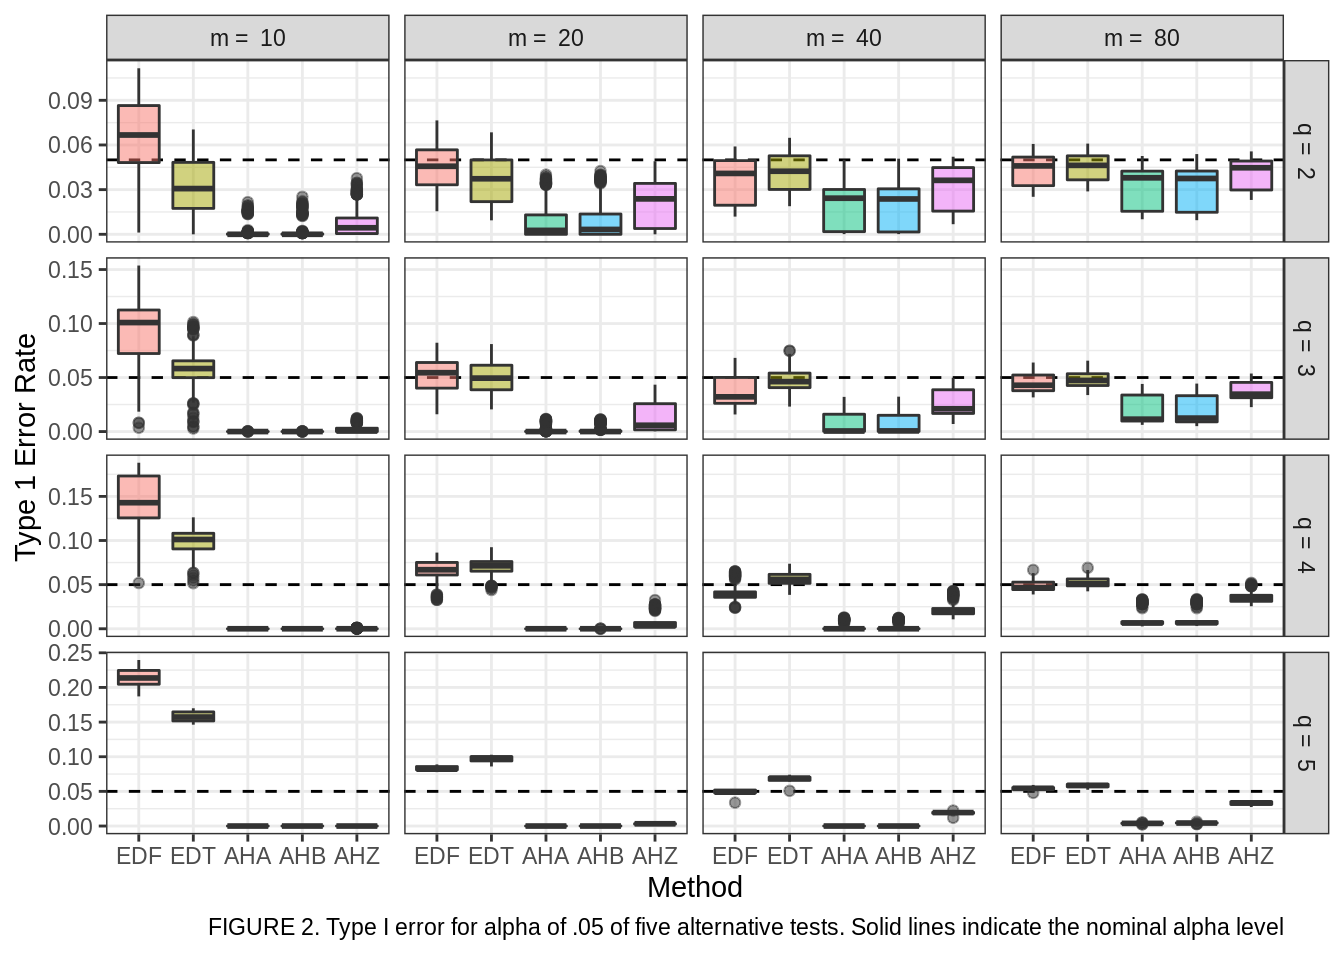
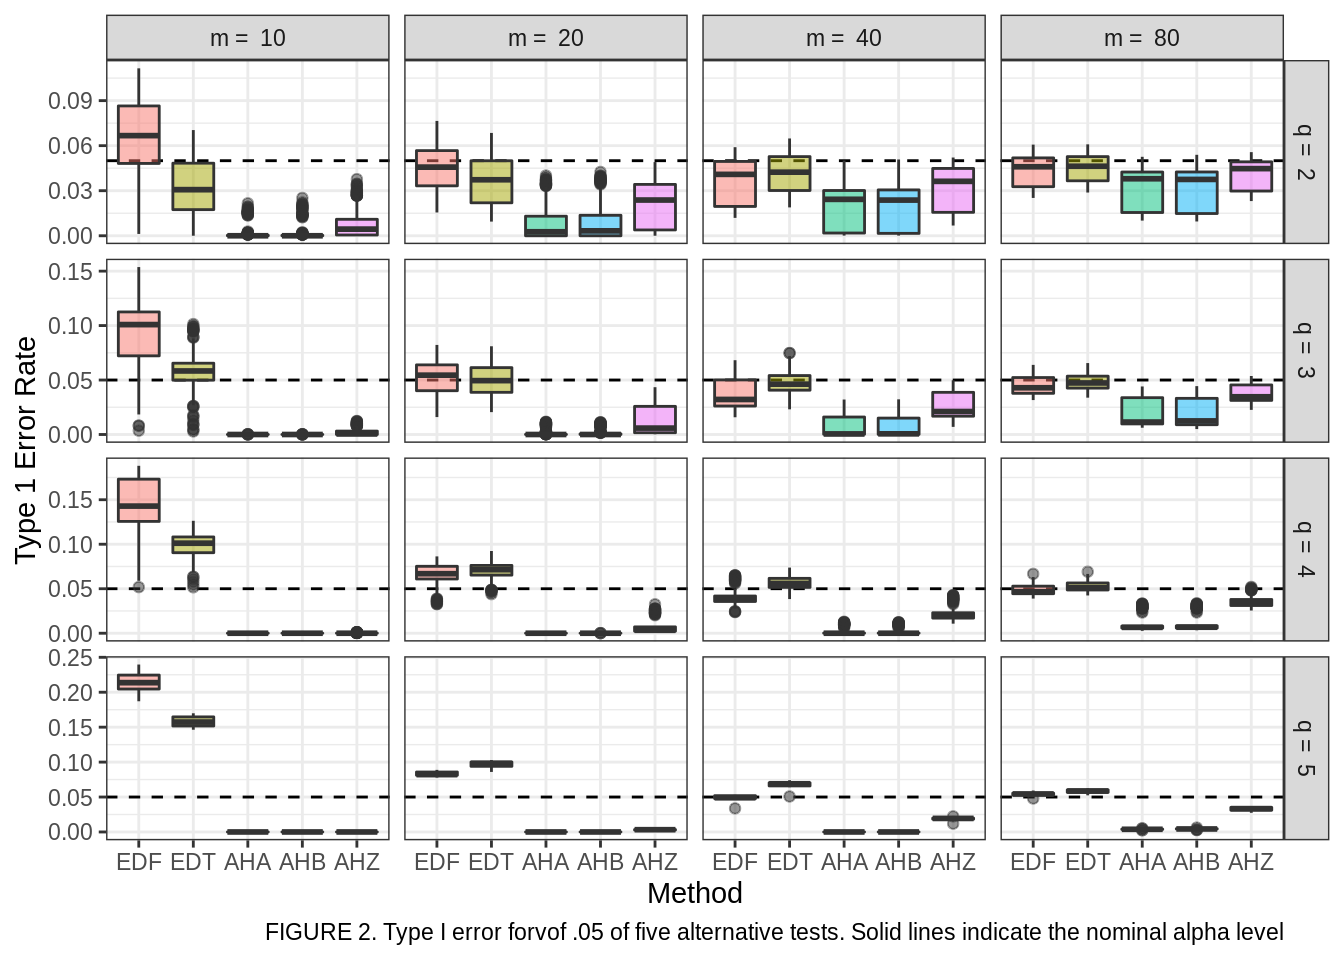
Deploy meghapsimatrix/simhelpers to github.com/meghapsimatrix/simhelpers.git:gh-pages

diff --git a/articles/simulation_workflow.html b/articles/simulation_workflow.html
@@ -107,8 +107,8 @@
 <li>Evaluate the overall results</li>
 </ol>
 <p>The following flowchart depicts the workflow. The chart is created using grViz() from <code>DiagrammeR</code> package.</p>
-<div id="htmlwidget-c7addd45f78944b22aad" style="width:700px;height:432.632880098888px;" class="grViz html-widget"></div>
-<script type="application/json" data-for="htmlwidget-c7addd45f78944b22aad">{"x":{"diagram":"digraph flowchart {\n      # node definitions with substituted label text\n      node [fontname = Helvetica, shape = rectangle]        \n      tab1 [label = \"Experimental Design\"]\n      tab2 [label = \"Data Generating Model\"]\n      tab3 [label = \"Estimation Methods\"]\n      tab4 [label = \"Performance Summaries\"]\n      tab5 [label = \"Results\"]\n\n      # edge definitions with the node IDs\n      tab1 -> tab2 -> tab3 -> tab4 -> tab5;\n      }","config":{"engine":"dot","options":null}},"evals":[],"jsHooks":[]}</script><p>The explanation of the workflow in this vignette follow notes from Dr. James Pustejovsky’s <a href="https://www.jepusto.com/teaching/daspir/">Data Analysis, Simulation and Programming in R course (Spring, 2019)</a>.</p>
+<div id="htmlwidget-946c0adfda05601f4483" style="width:700px;height:432.632880098888px;" class="grViz html-widget"></div>
+<script type="application/json" data-for="htmlwidget-946c0adfda05601f4483">{"x":{"diagram":"digraph flowchart {\n      # node definitions with substituted label text\n      node [fontname = Helvetica, shape = rectangle]        \n      tab1 [label = \"Experimental Design\"]\n      tab2 [label = \"Data Generating Model\"]\n      tab3 [label = \"Estimation Methods\"]\n      tab4 [label = \"Performance Summaries\"]\n      tab5 [label = \"Results\"]\n\n      # edge definitions with the node IDs\n      tab1 -> tab2 -> tab3 -> tab4 -> tab5;\n      }","config":{"engine":"dot","options":null}},"evals":[],"jsHooks":[]}</script><p>The explanation of the workflow in this vignette follow notes from Dr. James Pustejovsky’s <a href="https://www.jepusto.com/teaching/daspir/">Data Analysis, Simulation and Programming in R course (Spring, 2019)</a>.</p>
 <div class="sourceCode" id="cb1"><pre class="sourceCode r"><code class="sourceCode r"><a class="sourceLine" id="cb1-1" data-line-number="1"><span class="kw"><a href="https://rdrr.io/r/base/library.html">library</a></span>(simhelpers)</a>
 <a class="sourceLine" id="cb1-2" data-line-number="2"><span class="kw"><a href="https://rdrr.io/r/base/library.html">library</a></span>(dplyr)</a>
 <a class="sourceLine" id="cb1-3" data-line-number="3"><span class="kw"><a href="https://rdrr.io/r/base/library.html">library</a></span>(tibble)</a>
@@ -305,7 +305,7 @@
 <a class="sourceLine" id="cb12-7" data-line-number="7"><span class="st">    </span><span class="kw"><a href="https://tidyr.tidyverse.org/reference/nest.html">unnest</a></span>(<span class="dt">cols =</span> res)</a>
 <a class="sourceLine" id="cb12-8" data-line-number="8">)</a>
 <a class="sourceLine" id="cb12-9" data-line-number="9"><span class="co">#&gt;    user  system elapsed </span></a>
-<a class="sourceLine" id="cb12-10" data-line-number="10"><span class="co">#&gt;   7.846   0.024   7.869</span></a>
+<a class="sourceLine" id="cb12-10" data-line-number="10"><span class="co">#&gt;   8.058   0.016   8.071</span></a>
 <a class="sourceLine" id="cb12-11" data-line-number="11"></a>
 <a class="sourceLine" id="cb12-12" data-line-number="12">results <span class="op">%&gt;%</span></a>
 <a class="sourceLine" id="cb12-13" data-line-number="13"><span class="st">  </span><span class="kw"><a href="https://rdrr.io/pkg/knitr/man/kable.html">kable</a></span>()</a></code></pre></div>
@@ -723,7 +723,7 @@ Welch t-test
 <a class="sourceLine" id="cb14-10" data-line-number="10"><span class="st">    </span><span class="kw"><a href="https://tidyr.tidyverse.org/reference/nest.html">unnest</a></span>(<span class="dt">cols =</span> res)</a>
 <a class="sourceLine" id="cb14-11" data-line-number="11">)</a>
 <a class="sourceLine" id="cb14-12" data-line-number="12"><span class="co">#&gt;    user  system elapsed </span></a>
-<a class="sourceLine" id="cb14-13" data-line-number="13"><span class="co">#&gt;   0.104   0.000   7.725</span></a>
+<a class="sourceLine" id="cb14-13" data-line-number="13"><span class="co">#&gt;   0.107   0.001   8.111</span></a>
 <a class="sourceLine" id="cb14-14" data-line-number="14"></a>
 <a class="sourceLine" id="cb14-15" data-line-number="15">results <span class="op">%&gt;%</span></a>
 <a class="sourceLine" id="cb14-16" data-line-number="16"><span class="st">  </span><span class="kw"><a href="https://rdrr.io/pkg/knitr/man/kable.html">kable</a></span>()</a></code></pre></div>
@@ -1127,7 +1127,7 @@ Welch t-test
 <a class="sourceLine" id="cb15-2" data-line-number="2"><span class="kw"><a href="../reference/evaluate_by_row.html">evaluate_by_row</a></span>(params, run_sim) <span class="op">%&gt;%</span></a>
 <a class="sourceLine" id="cb15-3" data-line-number="3"><span class="st">  </span><span class="kw"><a href="https://rdrr.io/pkg/knitr/man/kable.html">kable</a></span>()</a>
 <a class="sourceLine" id="cb15-4" data-line-number="4"><span class="co">#&gt;    user  system elapsed </span></a>
-<a class="sourceLine" id="cb15-5" data-line-number="5"><span class="co">#&gt;   0.077   0.004   7.645</span></a></code></pre></div>
+<a class="sourceLine" id="cb15-5" data-line-number="5"><span class="co">#&gt;   0.082   0.004   7.967</span></a></code></pre></div>
 <table class="table">
 <thead><tr>
 <th style="text-align:right;">

diff --git a/articles/visualization.html b/articles/visualization.html
@@ -126,7 +126,7 @@
 <li>
 <code>r</code>: the correlation between outcomes that result in dependence.</li>
 <li>
-<span class="math inline">\(Isq\)</span>: a measure of heterogeneity of true effects.</li>
+<code>Isq</code>: a measure of heterogeneity of true effects.</li>
 <li>
 <code>contrast</code>: type of contrast that was tested.</li>
 <li>
@@ -168,7 +168,7 @@
 <a class="sourceLine" id="cb4-3" data-line-number="3"><span class="st">  </span><span class="kw"><a href="https://ggplot2.tidyverse.org/reference/geom_abline.html">geom_hline</a></span>(<span class="dt">yintercept =</span> <span class="fl">.05</span>, <span class="dt">linetype =</span> <span class="st">"dashed"</span>) <span class="op">+</span><span class="st"> </span></a>
 <a class="sourceLine" id="cb4-4" data-line-number="4"><span class="st">  </span><span class="kw"><a href="https://ggplot2.tidyverse.org/reference/geom_boxplot.html">geom_boxplot</a></span>(<span class="dt">alpha =</span> <span class="fl">.5</span>) <span class="op">+</span><span class="st"> </span></a>
 <a class="sourceLine" id="cb4-5" data-line-number="5"><span class="st">  </span><span class="kw"><a href="https://ggplot2.tidyverse.org/reference/facet_grid.html">facet_grid</a></span>(q <span class="op">~</span><span class="st"> </span>num_studies, <span class="dt">scales =</span> <span class="st">"free"</span>) <span class="op">+</span><span class="st"> </span></a>
-<a class="sourceLine" id="cb4-6" data-line-number="6"><span class="st">  </span><span class="kw"><a href="https://ggplot2.tidyverse.org/reference/labs.html">labs</a></span>(<span class="dt">x =</span> <span class="st">"Method"</span>, <span class="dt">y =</span> <span class="st">"Type 1 Error Rate"</span>, <span class="dt">caption =</span> <span class="kw"><a href="https://rdrr.io/r/base/expression.html">expression</a></span>(<span class="st">"FIGURE 2. Type I error for alpha of .05 of five alternative tests. Solid lines indicate the nominal alpha level"</span>)) <span class="op">+</span><span class="st"> </span></a>
+<a class="sourceLine" id="cb4-6" data-line-number="6"><span class="st">  </span><span class="kw"><a href="https://ggplot2.tidyverse.org/reference/labs.html">labs</a></span>(<span class="dt">x =</span> <span class="st">"Method"</span>, <span class="dt">y =</span> <span class="st">"Type 1 Error Rate"</span>, <span class="dt">caption =</span> <span class="st">"FIGURE 2. Type I error forvof .05 of five alternative tests. Solid lines indicate the nominal alpha level"</span>) <span class="op">+</span><span class="st"> </span></a>
 <a class="sourceLine" id="cb4-7" data-line-number="7"><span class="st">  </span><span class="kw"><a href="https://ggplot2.tidyverse.org/reference/ggtheme.html">theme_bw</a></span>() <span class="op">+</span></a>
 <a class="sourceLine" id="cb4-8" data-line-number="8"><span class="st">  </span><span class="kw"><a href="https://ggplot2.tidyverse.org/reference/theme.html">theme</a></span>(<span class="dt">legend.position =</span> <span class="st">"none"</span>)</a></code></pre></div>
 <p><img src="visualization_files/figure-html/unnamed-chunk-4-1.png" width="672"></p>

diff --git a/reference/evaluate_by_row.html b/reference/evaluate_by_row.html
@@ -200,7 +200,7 @@ be the result from a call to <code>future_options()</code>.</p></td>
 )
 
 <span class='fu'>evaluate_by_row</span>(<span class='no'>df</span>, <span class='no'>rpois</span>)</div><div class='output co'>#&gt;    user  system elapsed 
-#&gt;   0.076   0.004   0.081 </div><div class='output co'>#&gt; # A tibble: 12 x 3
+#&gt;   0.066   0.012   0.078 </div><div class='output co'>#&gt; # A tibble: 12 x 3
 #&gt;        n lambda .results
 #&gt;    &lt;int&gt;  &lt;dbl&gt;    &lt;int&gt;
 #&gt;  1     3      8        4
